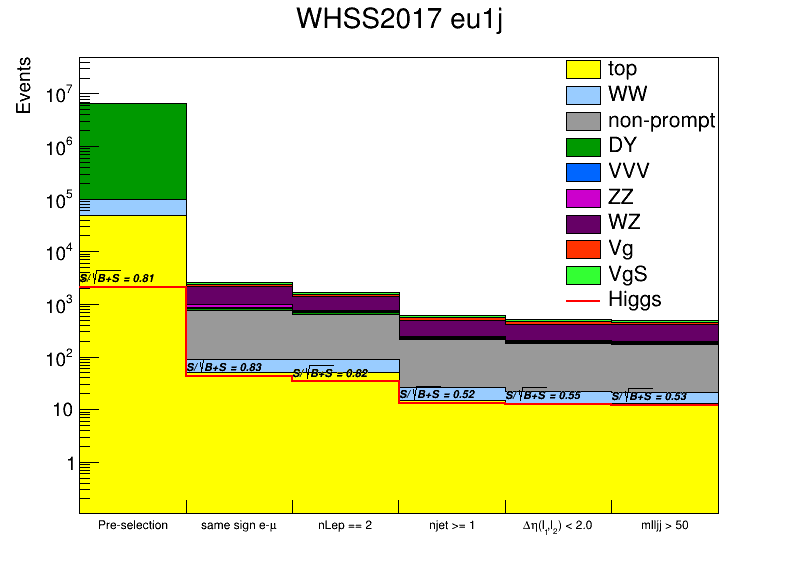
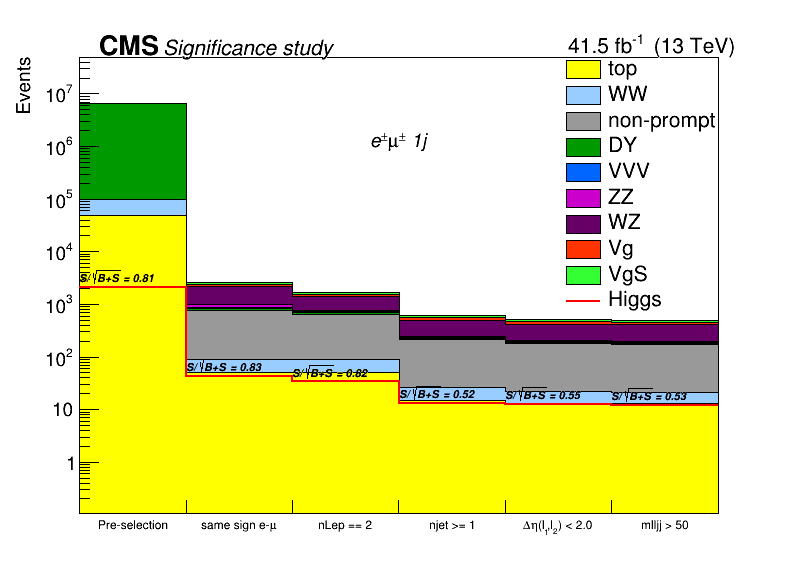
added label

Changed region(s): [[0.1203, 0.0, 0.6316, 0.1191], [0.6917, 0.0595, 0.9323, 0.0893], [0.4511, 0.2382, 0.5414, 0.268]]

diff --git a/cutflow/drawUtil.py b/cutflow/drawUtil.py
@@ -1,0 +1,49 @@
+from ROOT import TLatex
+
+def drawCMS(year, text, onTop=False):
+    lumis={
+        '2016' : "35.9",
+        '2017' : "41.5",
+        '2018' : "59.74",
+    }
+    lumi = lumis[year]
+    latex = TLatex()
+    latex.SetNDC()
+    latex.SetTextSize(0.04)
+    latex.SetTextColor(1)
+    latex.SetTextFont(42)
+    latex.SetTextAlign(33)
+    if (type(lumi) is float or type(lumi) is int) and float(lumi) > 0: latex.DrawLatex(0.95, 0.985, "%.1f fb^{-1}  (13 TeV)" % (float(lumi)/1000.) )
+    elif type(lumi) is str: latex.DrawLatex( 0.92 , 0.94 , "%s fb^{-1}  (13 TeV)" % lumi)
+    if not onTop: latex.SetTextAlign(11)
+    latex.SetTextFont(62)
+    latex.SetTextSize(0.05 if len(text)>0 else 0.06)
+    if not onTop: latex.DrawLatex(0.15, 0.87 if len(text)>0 else 0.84, "CMS")
+    else: latex.DrawLatex( 0.20 , 0.94 , "CMS" )
+    latex.SetTextSize(0.04)
+    latex.SetTextFont(52)
+    if not onTop: latex.DrawLatex( 0.15 , 0.83 , text)
+    else: latex.DrawLatex( 0.42 , 0.93 , text)
+    pass
+
+def drawRegion(channel, left=False):
+    region = { 
+        "incl_1j" : "Inclusive 1j", 
+        "incl_2j" : "Inclusive 2j", 
+        "uu1j" : "#mu^{#pm}#mu^{#pm} 1j", 
+        "uu2j" : "#mu^{#pm}#mu^{#pm} 2j", 
+        "eu1j" : "e^{#pm}#mu^{#pm} 1j", 
+        "eu2j" : "e^{#pm}#mu^{#pm} 2j"
+    }
+    text = ""
+    if channel in region: text = region[channel]
+
+    latex = TLatex()
+    latex.SetNDC()
+    latex.SetTextFont(52) #52
+    latex.SetTextSize(0.035)
+    if left: latex.DrawLatex(0.15, 0.75, text)
+    else:
+        latex.SetTextAlign(22)
+        latex.DrawLatex( 0.5 , 0.75 , text )
+    pass

diff --git a/cutflow/cutflow.py b/cutflow/cutflow.py
@@ -1,5 +1,6 @@
 import ROOT, sys
 from collections import OrderedDict
+from drawUtil import *
 
 ROOT.gStyle.SetPaintTextFormat("4.2f")
 
@@ -180,7 +181,7 @@ for icutflow in workflow:
         if useDATA: hist_data.Fill( ibin , workflow[icutflow][icut]['data'] )
         
     # create stack histogram
-    bkg = ROOT.THStack( "bkg", "%s %s; ; Events" %( fin.split('_')[2] , icutflow ) )
+    bkg = ROOT.THStack( "bkg", "; ; Events" ) #%( fin.split('_')[2] , icutflow ) )
     for ihist in hist: 
         hist[ihist].SetFillColor(groupList[ihist]['fillcolor'])
         hist[ihist].SetFillStyle(groupList[ihist]['fillstyle'])
@@ -237,6 +238,9 @@ for icutflow in workflow:
     hist_signal.Draw("SAME, HIST") # sum of bkg
     if useDATA: hist_data.Draw("SAME, PE")
     leg.Draw()
+
+    drawCMS(year,"Significance study",True)
+    drawRegion(icutflow)
 
     canvas[icutflow].Update()
 
